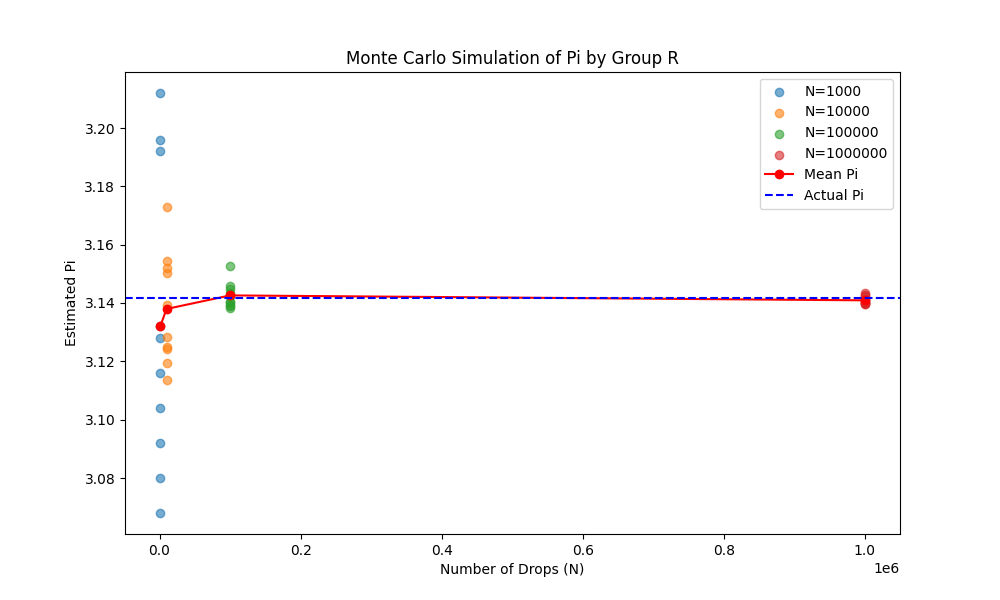
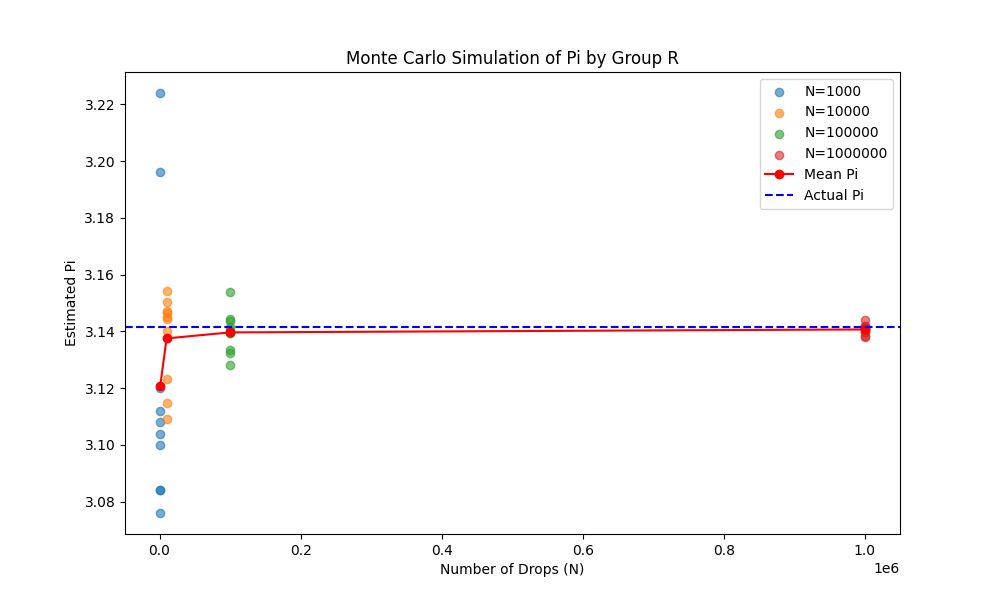
simulation 2

diff --git a/monte2.py b/monte2.py
@@ -1,0 +1,151 @@
+import argparse
+import random
+import statistics
+import pandas as pd
+import matplotlib.pyplot as plt
+import math
+
+
+def estimate_circle_pi(N):
+    """Estimate π using Monte Carlo simulation and also compute probabilities for circular and rectangular trays."""
+    inside_circle = 0
+    inside_rectangle = 0
+
+    # Define rectangular tray coordinates
+    # For demonstration: a 0.5x0.5 square in the bottom-left corner of the bounding square
+    rect_x_min, rect_x_max = -1.0, -0.5
+    rect_y_min, rect_y_max = -1.0, -0.5
+
+    for _ in range(N):
+        x = random.uniform(-1, 1)
+        y = random.uniform(-1, 1)
+
+        # Check inside circle (center=0,0; radius=1)
+        if x * x + y * y <= 1:
+            inside_circle += 1
+
+        # Check inside rectangle
+        if rect_x_min <= x <= rect_x_max and rect_y_min <= y <= rect_y_max:
+            inside_rectangle += 1
+
+    pi_estimate = 4 * (inside_circle / N)
+    prob_circle = inside_circle / N
+    prob_rectangle = inside_rectangle / N
+    return pi_estimate, prob_circle, prob_rectangle
+
+
+def compute_mode(values):
+    """Compute mode of a list of float values.
+    If all are unique, we can return None or handle by rounding."""
+    rounded_vals = [round(v, 5) for v in values]
+    try:
+        return statistics.mode(rounded_vals)
+    except statistics.StatisticsError:
+        # If no unique mode, return None or pick the first
+        return None
+
+
+def run_simulation(N_values, save_to_excel):
+    results = []
+
+    for N in N_values:
+        pi_estimates = []
+        circle_probs = []
+        rect_probs = []
+
+        # Run 10 experiments
+        for _ in range(10):
+            pi_val, p_circle, p_rect = estimate_circle_pi(N)
+            pi_estimates.append(pi_val)
+            circle_probs.append(p_circle)
+            rect_probs.append(p_rect)
+
+        mean_pi = statistics.mean(pi_estimates)
+        mode_pi = compute_mode(pi_estimates)
+        mean_circle_prob = statistics.mean(circle_probs)
+        mean_rect_prob = statistics.mean(rect_probs)
+
+        result_record = {
+            "N": N,
+            "Pi_Estimates": pi_estimates,
+            "Mean_Pi": mean_pi,
+            "Mode_Pi": mode_pi,
+            "Circle_Probabilities": circle_probs,
+            "Mean_Circle_Prob": mean_circle_prob,
+            "Rect_Probabilities": rect_probs,
+            "Mean_Rect_Prob": mean_rect_prob,
+        }
+        results.append(result_record)
+
+        # Print results for quick check
+        print(f"For N={N}:")
+        print(f" Pi Estimates: {pi_estimates}")
+        print(f" Mean Pi: {mean_pi}, Mode Pi: {mode_pi}")
+        print(f" Mean Circle Probability: {mean_circle_prob}")
+        print(f" Mean Rect Probability: {mean_rect_prob}")
+        print("-" * 50)
+
+    if save_to_excel:
+        data_rows = []
+        for r in results:
+            row = {
+                "N": r["N"],
+                "Mean_Pi": r["Mean_Pi"],
+                "Mode_Pi": r["Mode_Pi"],
+                "Mean_Circle_Prob": r["Mean_Circle_Prob"],
+                "Mean_Rect_Prob": r["Mean_Rect_Prob"],
+            }
+            for i, (pi_val, c_val, rect_val) in enumerate(
+                zip(
+                    r["Pi_Estimates"],
+                    r["Circle_Probabilities"],
+                    r["Rect_Probabilities"],
+                ),
+                start=1,
+            ):
+                row[f"Pi_Run_{i}"] = pi_val
+                row[f"Circle_Prob_Run_{i}"] = c_val
+                row[f"Rect_Prob_Run_{i}"] = rect_val
+            data_rows.append(row)
+
+        df = pd.DataFrame(data_rows)
+        df.to_excel("monte_carlo_pi_results_with_rectangle.xlsx", index=False)
+        print("Results saved to monte_carlo_pi_results_with_rectangle.xlsx")
+
+    # Plot the convergence of Pi (using mean values)
+    plt.figure(figsize=(10, 6))
+    Ns = [r["N"] for r in results]
+    mean_pis = [r["Mean_Pi"] for r in results]
+
+    plt.plot(Ns, mean_pis, marker="o", label="Mean of Pi Estimates")
+    plt.axhline(y=math.pi, color="r", linestyle="--", label="Actual π")
+    plt.xscale("log")
+    plt.xlabel("Number of Samples (N)")
+    plt.ylabel("Estimated π")
+    plt.title("Monte Carlo π Estimation Convergence")
+    plt.legend()
+    plt.savefig("pi_convergence_plot_with_rectangle.png")
+    print("Plot saved as pi_convergence_plot_with_rectangle.png")
+
+
+def main():
+    parser = argparse.ArgumentParser(
+        description="Monte Carlo Simulation to Estimate Pi and Tray Probabilities"
+    )
+    parser.add_argument(
+        "--values",
+        nargs="+",
+        type=int,
+        default=[1000, 10000, 100000, 1000000],
+        help="List of N values to run simulations for (e.g. --values 1000 10000)",
+    )
+    parser.add_argument(
+        "--excel", action="store_true", help="Save results to an Excel file."
+    )
+    args = parser.parse_args()
+
+    run_simulation(args.values, args.excel)
+
+
+if __name__ == "__main__":
+    main()
